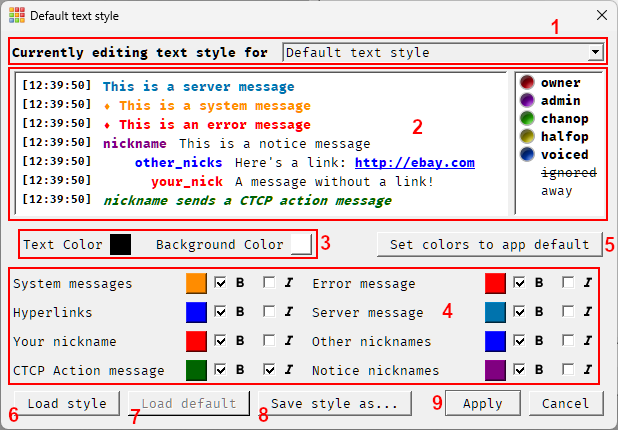
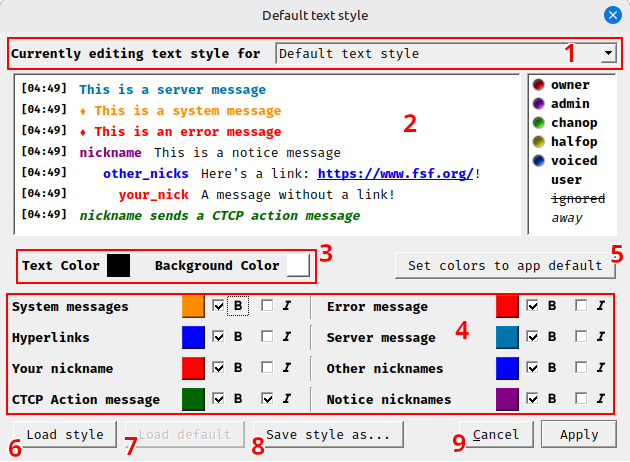
Tweaks to several dialogs

Changed region(s): [[0.0, 0.0, 1.0, 1.0], [0.6456, 0.2419, 0.7071, 0.3023]]

diff --git a/README.html b/README.html
@@ -1,4 +1,4 @@
-<h1>MERK 0.052.040</h1>
+<h1>MERK 0.052.041</h1>
 
 <p><a href="https://github.com/nutjob-laboratories/merk">Official source code repository</a></p>
 <h1 id="table-of-contents">Table of contents</h1>
@@ -9,7 +9,7 @@
 <li><a href="#example-commandline-usage">Example commandline usage</a></li>
 </ul>
 <h1 id="summary">Summary</h1>
-<p><strong>MERK</strong> is a graphical <a href="https://www.gnu.org/licenses/gpl-3.0.en.html">open source</a> <a href="https://en.wikipedia.org/wiki/Internet_Relay_Chat">Internet relay chat</a> client. The current development version is <strong>0.052.040</strong>. It uses a <a href="https://en.wikipedia.org/wiki/Multiple-document_interface">multiple-document interface</a>, much like the popular Windows IRC client <a href="https://www.mirc.com/">mIRC</a>. <strong>MERK</strong> is written in Python 3, using the <a href="https://pypi.org/project/PyQt5/">PyQt5</a> and <a href="https://twistedmatrix.com/trac/">Twisted</a> libraries, and runs on both Windows and Linux. <strong>MERK</strong> is updated frequently with new features and bugfixes.</p>
+<p><strong>MERK</strong> is a graphical <a href="https://www.gnu.org/licenses/gpl-3.0.en.html">open source</a> <a href="https://en.wikipedia.org/wiki/Internet_Relay_Chat">Internet relay chat</a> client. The current development version is <strong>0.052.041</strong>. It uses a <a href="https://en.wikipedia.org/wiki/Multiple-document_interface">multiple-document interface</a>, much like the popular Windows IRC client <a href="https://www.mirc.com/">mIRC</a>. <strong>MERK</strong> is written in Python 3, using the <a href="https://pypi.org/project/PyQt5/">PyQt5</a> and <a href="https://twistedmatrix.com/trac/">Twisted</a> libraries, and runs on both Windows and Linux. <strong>MERK</strong> is updated frequently with new features and bugfixes.</p>
 <p><strong>MERK</strong> is still in development, but it works, and can be used for most IRC activities.</p>
 <p>Join me on the official <strong>MERK</strong> IRC channel, <strong>#merk</strong> on TheMansion network! Connect to TheMansion in the client as one of the built-in server suggestions, or at <strong>irc.inthemansion.chat</strong>, port <strong>6697</strong> (via SSL). Honestly, I work a lot, so I'm almost always idle, but I pop in and chat a few times a day!</p>
 <p>If you'd like to help with <strong>MERK</strong>'s development, but don't write code, <a href="buymeacoffee.com/danhetrick">feel free to donate to <strong>MERK</strong></a>! Anyone who donates $50 or more will get their name immortalized on the "patrons" tab in the "About" dialog.</p>

diff --git a/merk/resources/README.html b/merk/resources/README.html
@@ -1,4 +1,4 @@
-<h1>MERK 0.052.040</h1>
+<h1>MERK 0.052.041</h1>
 
 <p><a href="https://github.com/nutjob-laboratories/merk">Official source code repository</a></p>
 <h1 id="table-of-contents">Table of contents</h1>
@@ -9,7 +9,7 @@
 <li><a href="#example-commandline-usage">Example commandline usage</a></li>
 </ul>
 <h1 id="summary">Summary</h1>
-<p><strong>MERK</strong> is a graphical <a href="https://www.gnu.org/licenses/gpl-3.0.en.html">open source</a> <a href="https://en.wikipedia.org/wiki/Internet_Relay_Chat">Internet relay chat</a> client. The current development version is <strong>0.052.040</strong>. It uses a <a href="https://en.wikipedia.org/wiki/Multiple-document_interface">multiple-document interface</a>, much like the popular Windows IRC client <a href="https://www.mirc.com/">mIRC</a>. <strong>MERK</strong> is written in Python 3, using the <a href="https://pypi.org/project/PyQt5/">PyQt5</a> and <a href="https://twistedmatrix.com/trac/">Twisted</a> libraries, and runs on both Windows and Linux. <strong>MERK</strong> is updated frequently with new features and bugfixes.</p>
+<p><strong>MERK</strong> is a graphical <a href="https://www.gnu.org/licenses/gpl-3.0.en.html">open source</a> <a href="https://en.wikipedia.org/wiki/Internet_Relay_Chat">Internet relay chat</a> client. The current development version is <strong>0.052.041</strong>. It uses a <a href="https://en.wikipedia.org/wiki/Multiple-document_interface">multiple-document interface</a>, much like the popular Windows IRC client <a href="https://www.mirc.com/">mIRC</a>. <strong>MERK</strong> is written in Python 3, using the <a href="https://pypi.org/project/PyQt5/">PyQt5</a> and <a href="https://twistedmatrix.com/trac/">Twisted</a> libraries, and runs on both Windows and Linux. <strong>MERK</strong> is updated frequently with new features and bugfixes.</p>
 <p><strong>MERK</strong> is still in development, but it works, and can be used for most IRC activities.</p>
 <p>Join me on the official <strong>MERK</strong> IRC channel, <strong>#merk</strong> on TheMansion network! Connect to TheMansion in the client as one of the built-in server suggestions, or at <strong>irc.inthemansion.chat</strong>, port <strong>6697</strong> (via SSL). Honestly, I work a lot, so I'm almost always idle, but I pop in and chat a few times a day!</p>
 <p>If you'd like to help with <strong>MERK</strong>'s development, but don't write code, <a href="buymeacoffee.com/danhetrick">feel free to donate to <strong>MERK</strong></a>! Anyone who donates $50 or more will get their name immortalized on the "patrons" tab in the "About" dialog.</p>

diff --git a/merk/dialog/styler.py b/merk/dialog/styler.py
@@ -317,14 +317,14 @@ class Dialog(QDialog):
 
 		self.bgcolor,self.fgcolor = styles.parseBackgroundAndForegroundColor(self.style["all"])
 
-		self.system_style = widgets.MiniStyler('system', "System messages    ",self.style['system'],False,self)
-		self.link_style = widgets.MiniStyler('hyperlink','Hyperlinks         ',self.style['hyperlink'],True,self)
-		self.action_style = widgets.MiniStyler('action', 'CTCP Action message',self.style['action'],False,self)
-		self.error_style = widgets.MiniStyler('error',   'Error message      ',self.style['error'],False,self)
-		self.notice_style = widgets.MiniStyler('notice', 'Notice nicknames   ',self.style['notice'],False,self)
-		self.self_style = widgets.MiniStyler('self',     'Your nickname      ',self.style['self'],False,self)
-		self.user_style = widgets.MiniStyler('username', 'Other nicknames    ',self.style['username'],False,self)
-		self.server_style = widgets.MiniStyler('server', 'Server message     ',self.style['server'],False,self)
+		self.system_style = widgets.MiniStyler('system', '<small><pre><b>System messages&nbsp;&nbsp;&nbsp;&nbsp;</b></pre></small>',self.style['system'],False,self)
+		self.link_style = widgets.MiniStyler('hyperlink','<small><pre><b>Hyperlinks&nbsp;&nbsp;&nbsp;&nbsp;&nbsp;&nbsp;&nbsp;&nbsp;&nbsp;</b></pre></small>',self.style['hyperlink'],True,self)
+		self.action_style = widgets.MiniStyler('action', '<small><pre><b>CTCP Action message</b></pre></small>',self.style['action'],False,self)
+		self.error_style = widgets.MiniStyler('error',   '<small><pre>&nbsp;<b>Error message&nbsp;&nbsp;&nbsp;&nbsp;&nbsp;&nbsp;</b></pre></small>',self.style['error'],False,self)
+		self.notice_style = widgets.MiniStyler('notice', '<small><pre>&nbsp;<b>Notice nicknames&nbsp;&nbsp;&nbsp;</b></pre></small>',self.style['notice'],False,self)
+		self.self_style = widgets.MiniStyler('self',     '<small><pre><b>Your nickname&nbsp;&nbsp;&nbsp;&nbsp;&nbsp;&nbsp;</b></pre></small>',self.style['self'],False,self)
+		self.user_style = widgets.MiniStyler('username', '<small><pre>&nbsp;<b>Other nicknames&nbsp;&nbsp;&nbsp;&nbsp;</b></pre></small>',self.style['username'],False,self)
+		self.server_style = widgets.MiniStyler('server', '<small><pre>&nbsp;<b>Server message&nbsp;&nbsp;&nbsp;&nbsp;&nbsp;</b></pre></small>',self.style['server'],False,self)
 
 		self.system_style.qssChanged.connect(self.qssChanged)
 		self.link_style.qssChanged.connect(self.qssChanged)
@@ -344,17 +344,20 @@ class Dialog(QDialog):
 		fheight = fm.height()
 
 		app_style = self.parent.app.style().metaObject().className()
-		display_height = (fheight*9)+10
-		ulwidth = (fm.averageCharWidth() + 2) + (fm.averageCharWidth()*10)
+		display_height = (fheight*10)+10
+		ulwidth = (fm.averageCharWidth() + 2) + (fm.averageCharWidth()*12)
 
 		self.chat.setFixedHeight(display_height)
+
+		self.chat.setHorizontalScrollBarPolicy(Qt.ScrollBarAlwaysOff)
+		self.chat.setVerticalScrollBarPolicy(Qt.ScrollBarAlwaysOff)
 
 		self.messages = [
 			Message(SERVER_MESSAGE,'','This is a server message'),
 			Message(SYSTEM_MESSAGE,'','This is a system message'),
 			Message(ERROR_MESSAGE,'','This is an error message'),
 			Message(NOTICE_MESSAGE,'nickname','This is a notice message'),
-			Message(CHAT_MESSAGE,'other_nicks',"A link: https://www.fsf.org/!"),
+			Message(CHAT_MESSAGE,'other_nicks',"Here's a link: https://www.fsf.org/!"),
 			Message(SELF_MESSAGE,'your_nick',"A message without a link!"),
 			Message(ACTION_MESSAGE,'nickname','sends a CTCP action message'),
 		]
@@ -363,8 +366,8 @@ class Dialog(QDialog):
 			t = render.render_message(line,self.style,None,config.STRIP_NICKNAME_PADDING_FROM_DISPLAY)
 			self.chat.append(t)
 
-		self.fore = widgets.SyntaxTextColor('fore', "Text Color",self.fgcolor,self)
-		self.back = widgets.SyntaxTextColor('back', "Background Color",self.bgcolor,self)
+		self.fore = widgets.SyntaxTextColor('fore', "<b>Text Color</b>",self.fgcolor,self)
+		self.back = widgets.SyntaxTextColor('back', "<b>Background Color</b>",self.bgcolor,self)
 
 		self.fore.syntaxChanged.connect(self.syntaxChanged)
 		self.back.syntaxChanged.connect(self.syntaxChanged)
@@ -379,6 +382,9 @@ class Dialog(QDialog):
 
 		self.userlist.setFixedHeight(display_height)
 		self.userlist.setFixedWidth(ulwidth)
+
+		self.userlist.setHorizontalScrollBarPolicy(Qt.ScrollBarAlwaysOff)
+		self.userlist.setVerticalScrollBarPolicy(Qt.ScrollBarAlwaysOff)
 
 		if not config.SHOW_USERLIST:
 			self.userlist.hide()
@@ -557,11 +563,39 @@ class Dialog(QDialog):
 		foregroundBackground.addWidget(defaultButton)
 		foregroundBackground.setContentsMargins(1,1,1,1)
 
-		allStyles = QFormLayout()
-		allStyles.addRow(self.system_style,self.error_style)
-		allStyles.addRow(self.link_style,self.server_style)
-		allStyles.addRow(self.self_style,self.user_style)
-		allStyles.addRow(self.action_style,self.notice_style)
+		allStyles = QGridLayout()
+
+		separator = QFrame()
+		separator.setFrameShape(QFrame.VLine)
+		separator.setFrameShadow(QFrame.Sunken)
+
+		allStyles.addWidget(self.system_style, 0, 0)
+		allStyles.addWidget(separator, 0, 1)
+		allStyles.addWidget(self.error_style, 0, 2)
+
+		separator2 = QFrame()
+		separator2.setFrameShape(QFrame.VLine)
+		separator2.setFrameShadow(QFrame.Sunken)
+
+		allStyles.addWidget(self.link_style, 1, 0)
+		allStyles.addWidget(separator2, 1, 1)
+		allStyles.addWidget(self.server_style, 1, 2)
+
+		separator3 = QFrame()
+		separator3.setFrameShape(QFrame.VLine)
+		separator3.setFrameShadow(QFrame.Sunken)
+
+		allStyles.addWidget(self.self_style, 2, 0)
+		allStyles.addWidget(separator3, 2, 1)
+		allStyles.addWidget(self.user_style, 2, 2)
+
+		separator4 = QFrame()
+		separator4.setFrameShape(QFrame.VLine)
+		separator4.setFrameShadow(QFrame.Sunken)
+
+		allStyles.addWidget(self.action_style, 3, 0)
+		allStyles.addWidget(separator4, 3, 1)
+		allStyles.addWidget(self.notice_style, 3, 2)
 
 		editstyleLayout = QVBoxLayout()
 		editstyleLayout.addLayout(foregroundBackground)

diff --git a/merk/dialog/settings.py b/merk/dialog/settings.py
@@ -4597,7 +4597,7 @@ class Dialog(QDialog):
 			<b>Timestamps</b>, if turned on, are shown as the beginning of all displayed
 			messages in the chat display. They are saved to the log in <b><a href="https://en.wikipedia.org/wiki/Unix_time">UNIX
 			epoch time</a></b> regardless of whether they are visible or not. <b>Timestamps</b> and other
-			date and time displays in chat and the log viewer can be displayed in <a href="https://en.wikipedia.org/wiki/Coordinated_Universal_Time">
+			date and time displays in chat and the <b>Log Manager</b> can be displayed in <a href="https://en.wikipedia.org/wiki/Coordinated_Universal_Time">
 			<b>Coordinated Universal Time</b></a> (UTC) rather than in local time.
 			</small>
 			<br>
@@ -6592,16 +6592,16 @@ class Dialog(QDialog):
 
 		self.stack.addWidget(self.syntaxPage)
 
-		self.syntaxcomment = widgets.SyntaxColor('comment', "<b>Comments</b>",self.SYNTAX_COMMENT_COLOR,self.SYNTAX_COMMENT_STYLE,self)
-		self.syntaxcommand = widgets.SyntaxColor('command', "<b>Commands/Keywords</b>",self.SYNTAX_COMMAND_COLOR,self.SYNTAX_COMMAND_STYLE,self)
-		self.syntaxchannel = widgets.SyntaxColor('channel', "<b>Channels/Hosts</b>",self.SYNTAX_CHANNEL_COLOR,self.SYNTAX_CHANNEL_STYLE,self)
-		self.syntaxalias = widgets.SyntaxColor('alias', "<b>Aliases/Strings</b>",self.SYNTAX_ALIAS_COLOR,self.SYNTAX_ALIAS_STYLE,self)
-		self.syntaxscript = widgets.SyntaxColor('script', "<b>Script-Only Commands</b>",self.SYNTAX_SCRIPT_COLOR,self.SYNTAX_SCRIPT_STYLE,self)
-		self.syntaxop = widgets.SyntaxColor('operator', "<b>\"if\" Operators</b>",self.SYNTAX_OPERATOR_COLOR,self.SYNTAX_OPERATOR_STYLE,self)
+		self.syntaxcomment = widgets.SyntaxColor('comment', "<small><b>Comments</b></small>",self.SYNTAX_COMMENT_COLOR,self.SYNTAX_COMMENT_STYLE,self)
+		self.syntaxcommand = widgets.SyntaxColor('command', "<small><b>Commands/Keywords</b></small>",self.SYNTAX_COMMAND_COLOR,self.SYNTAX_COMMAND_STYLE,self)
+		self.syntaxchannel = widgets.SyntaxColor('channel', "<small><b>Channels/Hosts</b></small>",self.SYNTAX_CHANNEL_COLOR,self.SYNTAX_CHANNEL_STYLE,self)
+		self.syntaxalias = widgets.SyntaxColor('alias', "<small><b>Aliases/Strings</b></small>",self.SYNTAX_ALIAS_COLOR,self.SYNTAX_ALIAS_STYLE,self)
+		self.syntaxscript = widgets.SyntaxColor('script', "<small><b>Script-Only Commands</b></small>",self.SYNTAX_SCRIPT_COLOR,self.SYNTAX_SCRIPT_STYLE,self)
+		self.syntaxop = widgets.SyntaxColor('operator', "<small><b>\"if\" Operators</b></small>",self.SYNTAX_OPERATOR_COLOR,self.SYNTAX_OPERATOR_STYLE,self)
 		self.syntaxfore = widgets.SyntaxTextColor('fore', "<b>Text Color</b>",self.SYNTAX_FOREGROUND,self)
 		self.syntaxback = widgets.SyntaxTextColor('back', "<b>Background</b>",self.SYNTAX_BACKGROUND,self)
-		self.syntaxnick = widgets.SyntaxColor('nick', "<b>Nicknames</b>",self.SYNTAX_NICKNAME_COLOR,self.SYNTAX_NICKNAME_STYLE,self)
-		self.syntaxemoji = widgets.SyntaxColor('emoji', "<b>Shortcodes</b>",self.SYNTAX_EMOJI_COLOR,self.SYNTAX_EMOJI_STYLE,self)
+		self.syntaxnick = widgets.SyntaxColor('nick', "<small><b>Nicknames</b></small>",self.SYNTAX_NICKNAME_COLOR,self.SYNTAX_NICKNAME_STYLE,self)
+		self.syntaxemoji = widgets.SyntaxColor('emoji', "<small><b>Shortcodes</b></small>",self.SYNTAX_EMOJI_COLOR,self.SYNTAX_EMOJI_STYLE,self)
 
 		self.syntaxcomment.syntaxChanged.connect(self.syntaxChanged)
 		self.syntaxcommand.syntaxChanged.connect(self.syntaxChanged)
@@ -6644,6 +6644,7 @@ class Dialog(QDialog):
 
 		tbLay2 = QFormLayout()
 		tbLay2.setSpacing(0)
+		tbLay2.setHorizontalSpacing(15)
 		tbLay2.addRow(self.syntaxfore, self.syntaxback)
 		tbLay2.addRow(self.syntaxcomment, self.syntaxcommand)
 		tbLay2.addRow(self.syntaxchannel, self.syntaxalias)
@@ -6655,6 +6656,8 @@ class Dialog(QDialog):
 		tbLay.addStretch()
 
 		sbLay2 = QFormLayout()
+		sbLay2.setSpacing(0)
+		sbLay2.setHorizontalSpacing(15)
 		sbLay2.addRow(self.syntaxnick, self.syntaxemoji)
 
 		sbLay = QHBoxLayout()

diff --git a/merk/resources/servers.py b/merk/resources/servers.py
@@ -56,6 +56,11 @@ GimpNet:https://www.gimpnet.org/
 Ogame:https://www.ogame.org/
 SlashNET:https://slashnet.org/
 MansionNET:https://inthemansion.com/
+2600net:https://2600.net/
+Abandoned-IRC:https://abandoned-irc.net/
+AfterNET:http://www.afternet.org/
+AllNightCafe:https://allnightcafe.com/
+AlphaChat:https://www.alphachat.net/
 """
 
 NETWORK_LIST = """irc.2600.net:6667:2600net:normal

diff --git a/merk/logs.py b/merk/logs.py
@@ -236,7 +236,7 @@ def dumpLogHuman(filename,no_timestamps=False,epoch=False):
 				u = l[2]
 
 			if trimmed==True:
-				out.append(f"\x02\x1d\x0304Viewing only the last {len(logs)} lines of the log, due to size\x0f")
+				out.append(f"\x02\x1d\x0304Viewing only the last {len(logs)} lines of the log\x0f")
 				trimmed = False
 
 			if config.SHOW_TIMESTAMPS_IN_UTC:

diff --git a/merk/resources/version.py b/merk/resources/version.py
@@ -1,1 +1,1 @@
-APPLICATION_VERSION = "0.052.040"
+APPLICATION_VERSION = "0.052.041"

diff --git a/merk/widgets/syntaxstyler.py b/merk/widgets/syntaxstyler.py
@@ -144,7 +144,9 @@ class SyntaxColor(QWidget):
 		
 
 		controlsLayout = QHBoxLayout()
+		controlsLayout.setSpacing(0)
 		controlsLayout.addWidget(self.setColor)
+		controlsLayout.addWidget(QLabel(' '))
 		controlsLayout.addWidget(self.setBold)
 		controlsLayout.addWidget(self.setItalic)
 		controlsLayout.setAlignment(Qt.AlignLeft)

diff --git a/README.md b/README.md
@@ -3,7 +3,7 @@
   <b><big>Cross-Platform Open Source IRC Client</big></b><br>
   <i>A multiple-document interface IRC client for Windows, Linux, and macOS</i><br><br>
   <b><big>Current stable release: <a href="https://github.com/nutjob-laboratories/merk/releases/tag/0.052.000">MERK 0.052.000</a></big></b><br>
-  <b><big>Current development build: <a href="https://latest.merk.chat">MERK 0.052.040</a></b></big><br><br>
+  <b><big>Current development build: <a href="https://latest.merk.chat">MERK 0.052.041</a></b></big><br><br>
 </p>
 
 **MERK** is a cross-platform graphical [open source](https://www.gnu.org/licenses/gpl-3.0.en.html) [IRC](https://en.wikipedia.org/wiki/Internet_Relay_Chat) client written in Python 3 with [PyQt5](https://pypi.org/project/PyQt5/) and [Twisted](https://twistedmatrix.com/trac/). It uses a [multiple-document interface](https://en.wikipedia.org/wiki/Multiple-document_interface), much like the classic Windows client [mIRC](https://www.mirc.com/). Unlike mIRC, **MERK** is completely free and open source, and runs on all major platforms. It's designed to be easy and intuitive for new users, while staying powerful and deeply customizable for everyone else. You never have to delve deeper into the interface than you want to.
@@ -36,11 +36,11 @@ All files are packed in [ZIP archives](https://en.wikipedia.org/wiki/ZIP_(file_f
 | :----:    | :----:    | :----:    |
 | User Guide |  PDF  | [MERK User Guide](./MERK_User_Guide.pdf)  |
 | Current Release |  All  | [MERK 0.052.000 Release](https://github.com/nutjob-laboratories/merk/releases/tag/0.052.000)  |
-| Zip Archive |  Cross-Platform Python  | [Download MERK 0.052.040 (10.97 MB)](https://www.dropbox.com/scl/fi/cux4yf7ge451jvwqdw1u9/merk-latest.zip?rlkey=7e53i142jtw01lwrfzn259z4h&dl=1)  |
-| Zip Archive |  Linux Executable | [Download MERK 0.052.040 (97.06 MB)](https://www.dropbox.com/scl/fi/xma3afmie19kyutf2eo9k/merk-linux-latest.zip?rlkey=1l13ta59fi7o9lyi3ycu9qkb0&st=a2xc713e&dl=1)  |
-| Flatpak |  Linux Flatpak | [Download MERK 0.052.040 (71.28 MB)](https://www.dropbox.com/scl/fi/hhcrqrgjacksm6pir8p3u/merk-latest.flatpak?rlkey=cypundhha86v0daloitkfoojn&st=mhxh1wpf&dl=1)  |
-| Zip Archive|  Windows Executable | [Download MERK 0.052.040 (47.95 MB)](https://www.dropbox.com/scl/fi/ek2pvk6avluxyupo2zvz1/merk-windows-latest.zip?rlkey=nzgneoqtvrcnepyhy4yq7mzlq&dl=1)|
-| Windows Installer |  Windows Setup | [Download MERK 0.052.040 (45.49 MB)](https://www.dropbox.com/scl/fi/30fd0eaeo5vszsy8haeui/merk-windows-setup.zip?rlkey=e44zsw9nle8jkny7ve6tgbh48&dl=1)|
+| Zip Archive |  Cross-Platform Python  | [Download MERK 0.052.041 (11.00 MB)](https://www.dropbox.com/scl/fi/cux4yf7ge451jvwqdw1u9/merk-latest.zip?rlkey=7e53i142jtw01lwrfzn259z4h&dl=1)  |
+| Zip Archive |  Linux Executable | [Download MERK 0.052.041 (97.06 MB)](https://www.dropbox.com/scl/fi/xma3afmie19kyutf2eo9k/merk-linux-latest.zip?rlkey=1l13ta59fi7o9lyi3ycu9qkb0&st=a2xc713e&dl=1)  |
+| Flatpak |  Linux Flatpak | [Download MERK 0.052.041 (71.36 MB)](https://www.dropbox.com/scl/fi/hhcrqrgjacksm6pir8p3u/merk-latest.flatpak?rlkey=cypundhha86v0daloitkfoojn&st=mhxh1wpf&dl=1)  |
+| Zip Archive|  Windows Executable | [Download MERK 0.052.041 (47.99 MB)](https://www.dropbox.com/scl/fi/ek2pvk6avluxyupo2zvz1/merk-windows-latest.zip?rlkey=nzgneoqtvrcnepyhy4yq7mzlq&dl=1)|
+| Windows Installer |  Windows Setup | [Download MERK 0.052.041 (45.52 MB)](https://www.dropbox.com/scl/fi/30fd0eaeo5vszsy8haeui/merk-windows-setup.zip?rlkey=e44zsw9nle8jkny7ve6tgbh48&dl=1)|
 
 # Quick Start
 